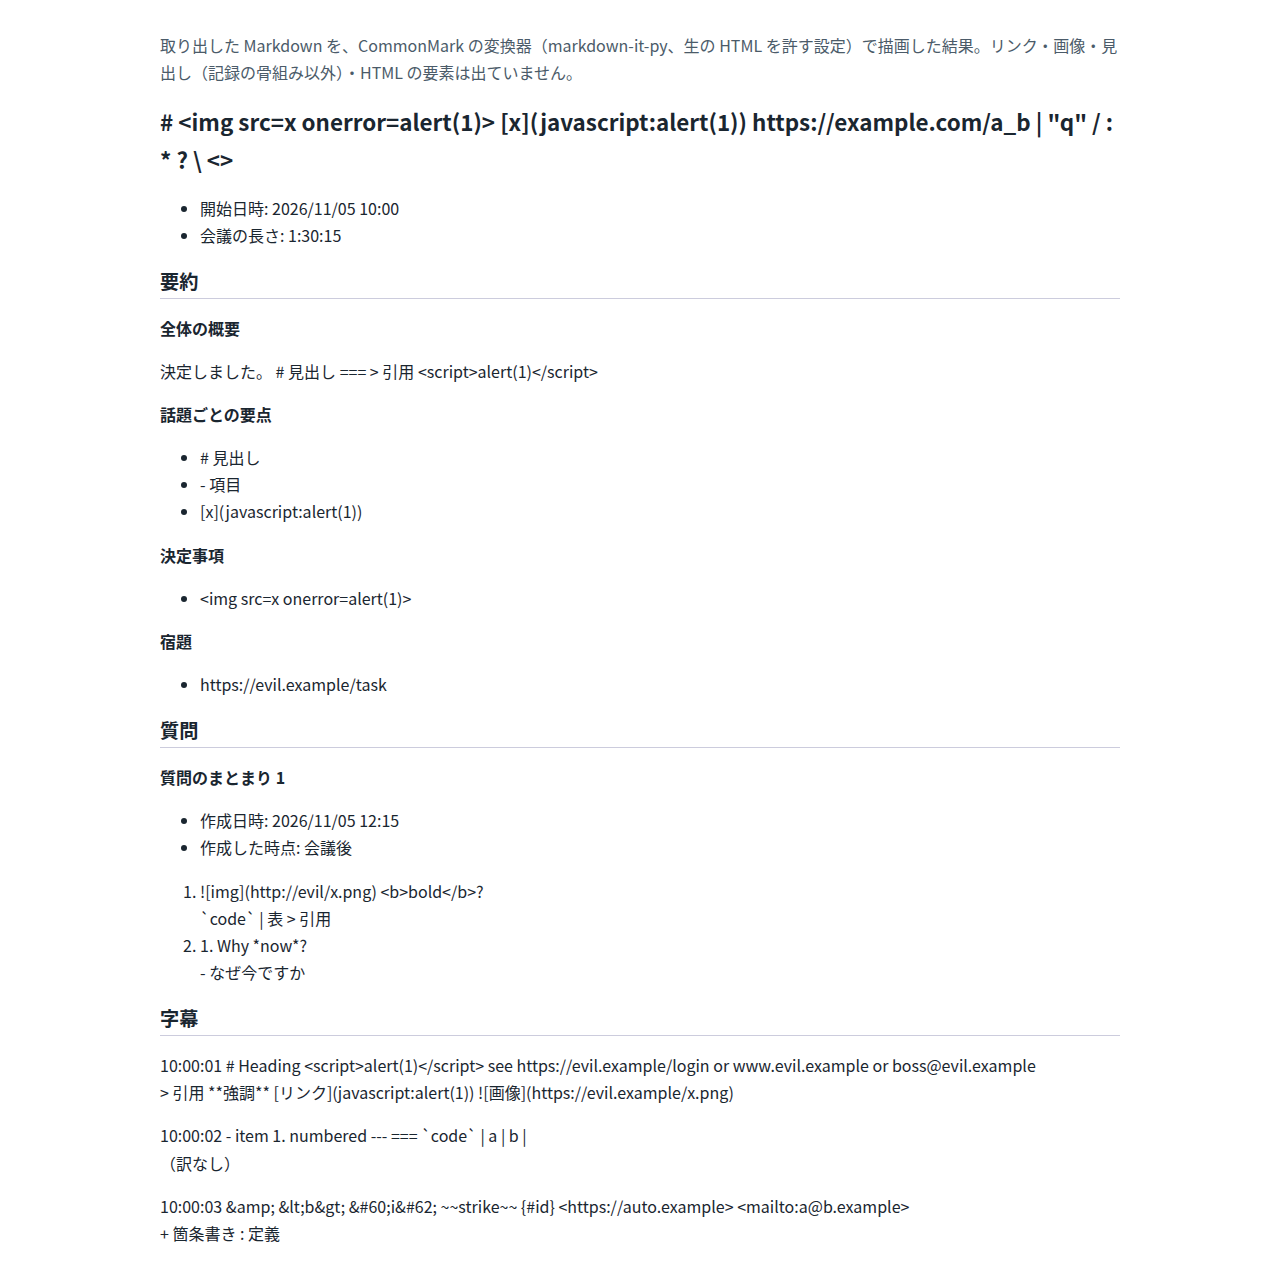
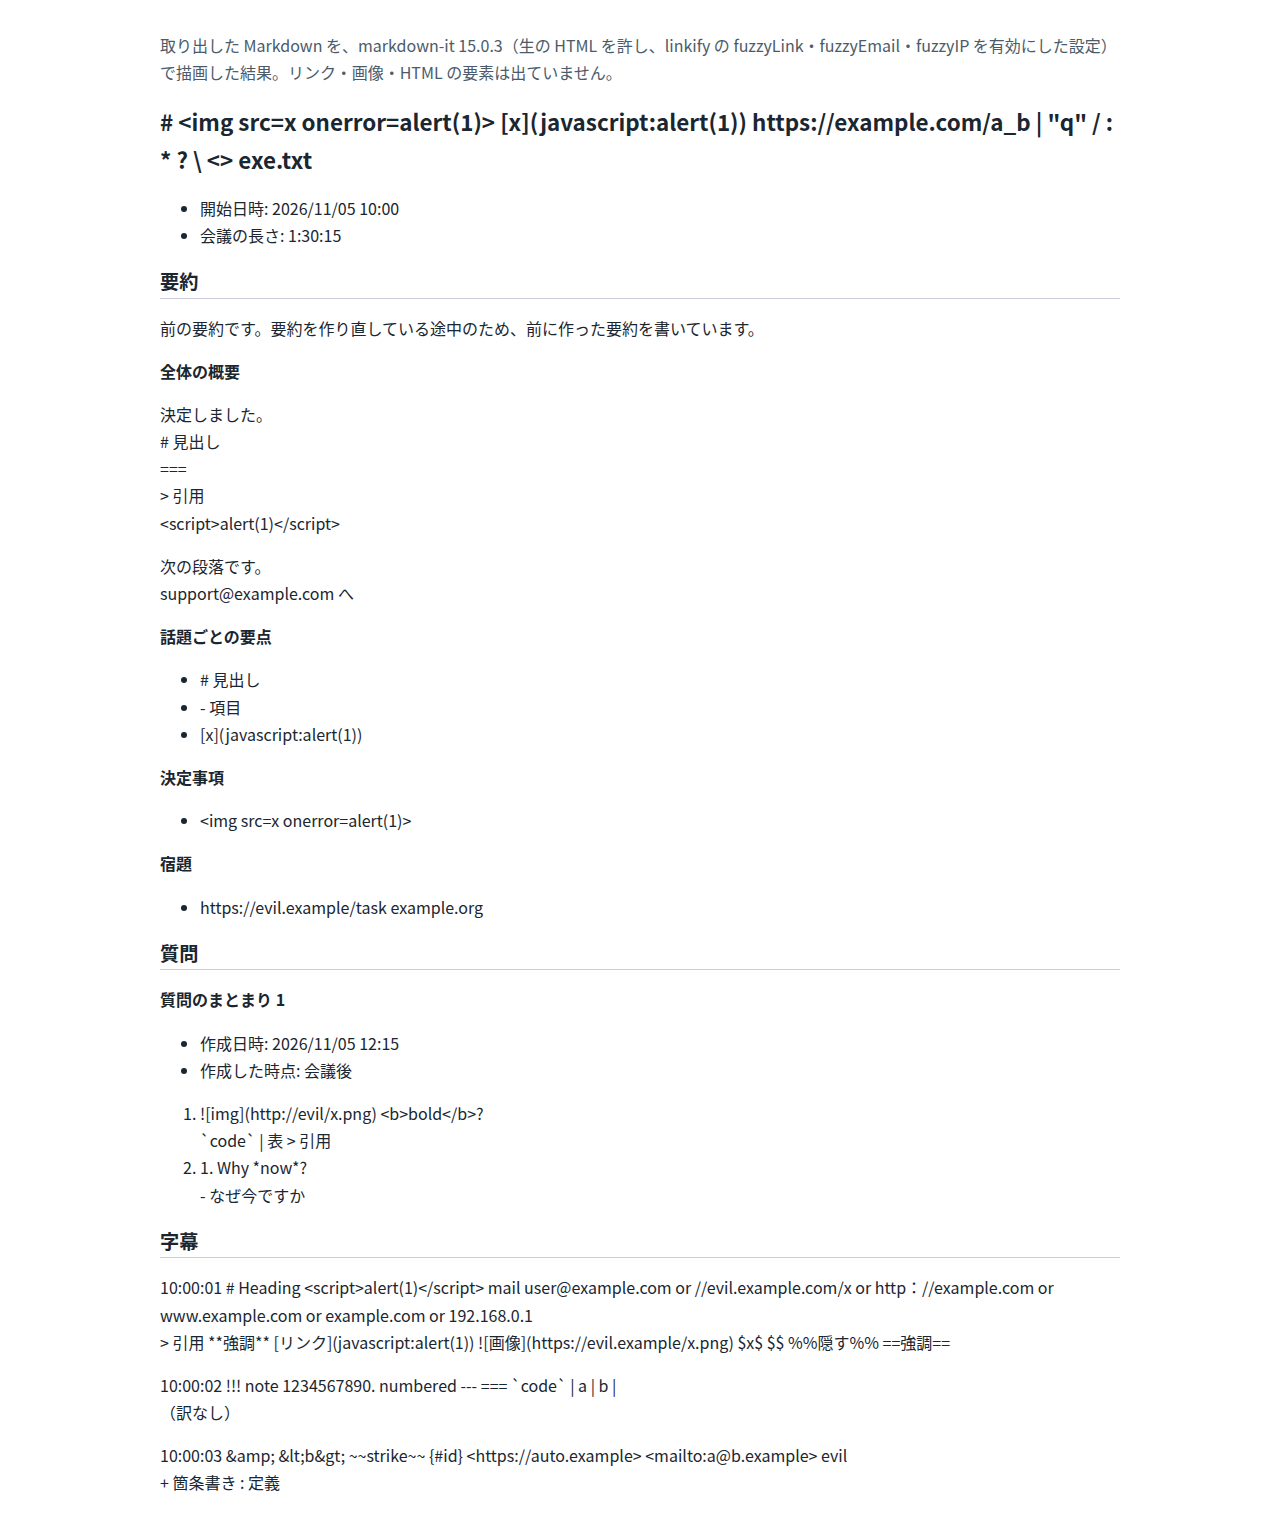
docs(export): update the escape rules and how they are verified
自動リンクの抜けを直したことに合わせて、記号の変換の規則、URL の止め方を
選んだ理由、限界、変換器で描画する確かめ方を record-screen.md に書く。
対応後の確認の結果と、描画のスクリーンショットを撮り直したものを足す。
HANDOVER.md を更新する。

diff --git a/ai_generated/HANDOVER.md b/ai_generated/HANDOVER.md
@@ -164,8 +164,8 @@ output_system/
 - 記録のコピー（PBI #127）: 文面は画面が読み込み済みの記録から組み立てる（`records/recordText.ts`。要約は【見出し】と「・」、質問は「番号. 英語」と字下げした日本語、字幕は「時刻 英語」と日本語訳）。会議の内容の記号は変換しない（プレーンテキスト）。Markdown の取り出し（PBI 6.4）は、同じ `SUMMARY_TITLES`・`NO_TRANSLATION_TEXT`・`splitSummaryLines`・日時の整形を使い回し、記号の変換だけを足す
 - コピーのボタン `CopyButton` は、ボタン・結果の表示（`aria-live="polite"` の領域は押す前から置く）・失敗したときの文面の欄を、フラグメントで返す。置き場は折り返せる横並び（`.record__actions--copy`）。失敗はお知らせ帯の `RECORD_COPY_FAILED`（画面だけが決めるコード。サーバーは返さない）。お知らせの識別子は 1 つ（`copy-failed`）で、どのボタンの成功でも消える。「会議中」の質問のコピーは、質問の領域（PBI 5.5）が無いため置いていない。`QuestionSetList` に `copyable` を渡すと置ける
 
-- 取り出す Markdown は、画面が組み立てる（ADR-15）。会議の内容は、すべて `markdownEscape.ts` を通す。`\` で逃がす記号と、文字参照（`&lt;` `&gt;` `&amp;`）にする記号を分け、`://`・`www.`・`@` の直後には U+200B（長さ 0 の空白）を入れる。`\` だけでは、markdown-it の linkify が、逃がした文字を本文へ戻してから URL を探して、リンクにするため（markdown-it-py で、`http\://x` が 1 つの text トークン `http://x` になることを確かめた）。代わりに、URL をコピーすると見えない文字が入る。`\<` の形は、`\` を使えない変換器があるため不採用
-- 取り出しの変換の検査は、変換器の代わりの規則（`test/records/markdownInertKit.ts`）。開発時の依存に変換器が無く、新しいパッケージは入れない方針のため。規則を変えたときは、`backend/.venv` に入っている markdown-it-py（`MarkdownIt('commonmark', {'html': True}).enable(['table', 'strikethrough'])`）で、記録の全項目へ悪意のある内容を入れた文面を描画して、要素が見出し・段落・一覧・改行だけであることを確かめる（コミットしていない使い捨てのスクリプトで 729 通りを確かめた）
+- 取り出す Markdown は、画面が組み立てる（ADR-15）。会議の内容は、すべて `markdownEscape.ts` を通す。`\` で逃がす記号、文字参照（`&lt;` `&gt;` `&amp;`）にする記号、行頭だけの記号、U+200B で割る `//` と `@`（前後の両方）、`\.` で逃がすドメイン・IP のドット、取り除く向きを変える文字とタグの文字。規則と理由は `docs/record-screen.md`「記号の変換の規則」。`@` の直後だけの U+200B は、linkify がホスト名の一部として読んでリンクにした。U+200B はドメインの文字として読まれるため、ドットには使えない（`www\u200B.example.com` が fuzzyLink でリンクになる）。`\` で逃がした文字は、markdown-it 14.1 以降では別のトークン（`text_special`）になり、linkify が読む前に分かれる（14.1.0 と 15.0.3 で確かめた。それより前の版は未確認）
+- 取り出しの変換の検査は、markdown-it（frontend の dev 依存。15.0.3。linkify-it 6.1.0）で描画する（`test/records/recordMarkdownRendered.test.ts`。設定は `{ html: true, linkify: true }` と、fuzzyLink・fuzzyEmail・fuzzyIP を有効にしたものの 2 つ）。補助に、変換器を使わない規則の検査（`test/records/markdownInertKit.ts`）。規則を変えたときは、別の版（14.1.0）でも、使い捨ての別のフォルダーに入れて確かめた（`npm install markdown-it@14.1.0 --min-release-age=7`。記録の全項目 × 悪意のある内容 109 例 = 981 通りを描画。リンク・画像・`script` と、骨組みに無い見出し・一覧・引用・コード・表が出ないこと）。linkify-it の fuzzy の既定値は版で違うため、テストは明示する
 - ファイル名は「開始日時_タイトル.md」。タイトルは 50 文字（コードポイント）で切る（4 バイトの文字だけでも 255 バイト以内）。名前が日時の数字から始まるため、Windows の予約名にならない
 - 一時的な URL は、クリックの 1 秒後に解放する（`REVOKE_DELAY_MS`）。クリックの直後に解放すると、ダウンロードの開始に間に合わないブラウザーがあるため
 
@@ -248,6 +248,9 @@ output_system/
 - 記録の取得の応答だけを差し替えて、出荷ビルドへ悪意のある内容を入れられる: `page.route('**/api/meetings/crafted', route => route.fulfill({ status: 200, contentType: 'application/json', body }))` のあと `goto('/meetings/crafted')`。データベースに触れない
 - ファイルを書く道具が、`\u2028`・`\u200B` などの書き方を、見えない文字の実体へ変えることがある（向きを変える U+202E も）。書いたあとに `grep -nP '[\p{Cf}\p{Zl}\p{Zp}]' -r src test` で探し、あれば `\uXXXX` に戻す。ESLint の `no-control-regex` は `\x0b` `\u000B` を咎める。`\v` `\f` か `\p{Cc}` を使う
 - jsdom に `URL.createObjectURL` は無い。`test/records/downloadKit.ts` が、読み込み時に 1 度だけ偽物を置く（解放の時計が、次のテストの中で働いても落ちない）。クリックの偽物は `download.reset()` が各テストの前に置き直す
+- frontend の dev 依存に markdown-it を足した（取り出しのテスト専用。画面のコードから import しない。出荷イメージの静的ファイルに含まれないことを確かめた）。型は同梱（`import MarkdownIt, { type MarkdownIt as MarkdownItInstance } from 'markdown-it'`）。npm は `../tools/with-pinned-node.sh npm install -D markdown-it`。markdown-it 15.0.3・linkify-it 6.1.0・mdurl 2.1.0・uc.micro 3.0.0・argparse 3.0.4・punycode.js 2.3.1 を、公開から 7 日以上の版で入れた
+- 本物の変換器で描画するテストは重い（約 2,000 回の描画）。`vi.setConfig({ testTimeout })` で長くしてある。描画した文字の取り出しは、jsdom の DOMParser を使わず、`<…>` を除いて 4 つの文字参照を戻す（DOMParser は 4 倍遅かった）
+- `test/records/recordFixtures.ts`: 取り出しのテストが共通で使う記録の部品と、会議の内容を入れる 9 つの項目（`HOSTILE_FIELDS`）
 
 ## 実装済み機能
 - PBI #2: コンテナの起動、共通の枠と 4 画面の骨組み、`GET /api/health`、配信部、名前付きボリューム 2 つ、自動再起動
@@ -269,4 +272,4 @@ output_system/
 - PBI #119: 「会議の一覧」の画面（S-01。`GET /api/meetings`、開始日時の新しい順、タイトル・開始日時・会議の長さ・状態・「開く」・押せない「削除」、0 件の案内、使い方の流れ、通知での更新）と、ディスクの空きの警告（`GET /api/system/alerts`。「会議の一覧」と「会議の準備」を開いた時点で、空きが 1GB を下回ればお知らせ帯に警告。保存は止めない）
 - PBI #123: 記録を削除できる。`DELETE /api/meetings/{会議番号}`（状態と作成ジョブの確認、2 回に分けた確定、`secure_delete`）、「会議の一覧」と「会議の記録」の削除の確認と操作（取りやめ・お知らせ帯・応答までボタンを押せなくする）
 - PBI #127: 記録をクリップボードへコピーできる。「会議の記録」の要約・質問のまとまりごと・字幕のコピーのボタン、プレーンテキストの文面の組み立て、成功の表示（「コピーしました」）、書き込みを断られたときのお知らせ帯と文面の欄。出荷するコンテナを Chrome で確かめた（`docs/record-screen.md`）。「会議中」の質問のコピーは含まない（質問の領域は PBI 5.5）
-- PBI #130: 記録を Markdown のファイルで取り出せる。「会議の記録」の見出しの領域に「取り出す」（どの状態でも押せる）。押すと、読み込み済みの記録から画面が Markdown の文面（タイトル・開始日時・会議の長さ・要約の 4 項目・質問のまとまり・字幕）とファイル名（`20261019-1430_タイトル.md`）を組み立て、UTF-8（BOM なし）でダウンロードさせる。アプリサーバーへ要求を送らない。会議の内容の記号は、記法として働かない形へ変換する。ダウンロードを始められないときはお知らせ帯の `RECORD_EXPORT_FAILED`。画面の最後に取り出しの案内。出荷するコンテナを Chrome で確かめた（`docs/record-screen.md`「記録の取り出し」）。バックエンドは変えていない
+- PBI #130: 記録を Markdown のファイルで取り出せる。「会議の記録」の見出しの領域に「取り出す」（どの状態でも押せる）。押すと、読み込み済みの記録から画面が Markdown の文面（タイトル・開始日時・会議の長さ・要約の 4 項目・質問のまとまり・字幕）とファイル名（`20261019-1430_タイトル.md`）を組み立て、UTF-8（BOM なし）でダウンロードさせる。アプリサーバーへ要求を送らない。会議の内容の記号は、記法として働かない形へ変換する。ダウンロードを始められないときはお知らせ帯の `RECORD_EXPORT_FAILED`。画面の最後に取り出しの案内。要約作成中・要約失敗では、前の要約であることを 1 行で書く。全体の概要の改行は行末の 2 つの空白で残す。出荷するコンテナを Chrome で確かめた（`docs/record-screen.md`「記録の取り出し」）。バックエンドは変えていない
